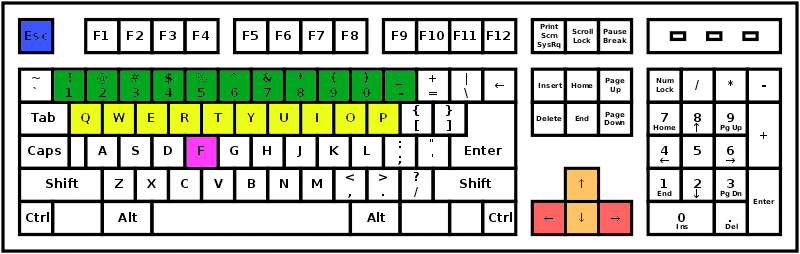
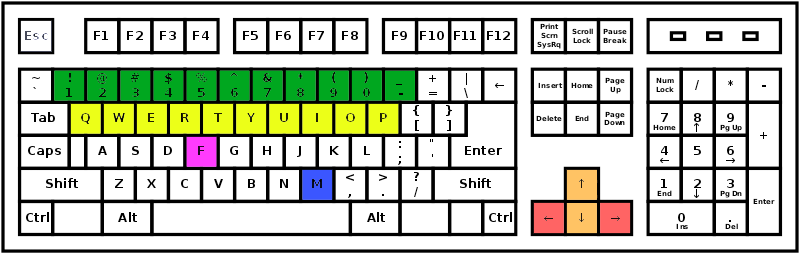
Canvas/settings bugfixes

Changed region(s): [[0.375, 0.6614, 0.4375, 0.7992], [0.0, 0.0551, 0.0625, 0.2205]]

diff --git a/Assets/Scripts/MainMenu.cs b/Assets/Scripts/MainMenu.cs
@@ -10,18 +10,18 @@ public class MainMenu : MonoBehaviour {
     void Start() {
         Cursor.visible = true;
         Cursor.lockState = CursorLockMode.None;
-        if (PlayerPrefs.HasKey("Volume")) {
-            mainmenu.volume = PlayerPrefs.GetFloat("Volume")/100.0f;
-            mainmenu.Play();
+        if (!PlayerPrefs.HasKey("Volume")) {
+            PlayerPrefs.SetFloat("Volume", Variables.volume);
         }
-        else {
-            mainmenu.volume = 0.5f;
-            mainmenu.Play();
+        if (!PlayerPrefs.HasKey("Sensitivity")) {
+            PlayerPrefs.SetFloat("Sensitivity", Variables.sensitivity);
         }
+        mainmenu.volume = PlayerPrefs.GetFloat("Volume")/100.0f;
+        mainmenu.Play();
     }
     
     public void Play() {
-        
+        // SceneManager.LoadScene(SceneManager.GetActiveScene().buildIndex + 2, LoadSceneMode.Single);
     }
 
     public void Explore() {

diff --git a/Assets/Scripts/Variables.cs b/Assets/Scripts/Variables.cs
@@ -18,19 +18,10 @@ public class Variables : MonoBehaviour {
             volume = PlayerPrefs.GetFloat("Volume");
             volumeSlider.value = volume;
         }
-        else {
-            PlayerPrefs.SetFloat("Volume", volume);
-            volumeSlider.value = volume;
-        }
         if (PlayerPrefs.HasKey("Sensitivity")) {
             volume = PlayerPrefs.GetFloat("Sensitivity");
             sensitivitySlider.value = sensitivity;
         }
-        else {
-            PlayerPrefs.SetFloat("Sensitivity", sensitivity);
-            sensitivitySlider.value = sensitivity;
-        }
-
     }
 
     public void updateVolume(float newVolume) {

diff --git a/Assets/Scripts/Settings.cs b/Assets/Scripts/Settings.cs
@@ -100,7 +100,7 @@ public class Settings : MonoBehaviour {
     }
     
     void Update() {
-        if (Input.GetKeyDown(KeyCode.Escape)) {
+        if (Input.GetKeyDown(KeyCode.M)) {
             SceneManager.LoadScene(SceneManager.GetActiveScene().buildIndex - 1, LoadSceneMode.Single);
             return;
         }
